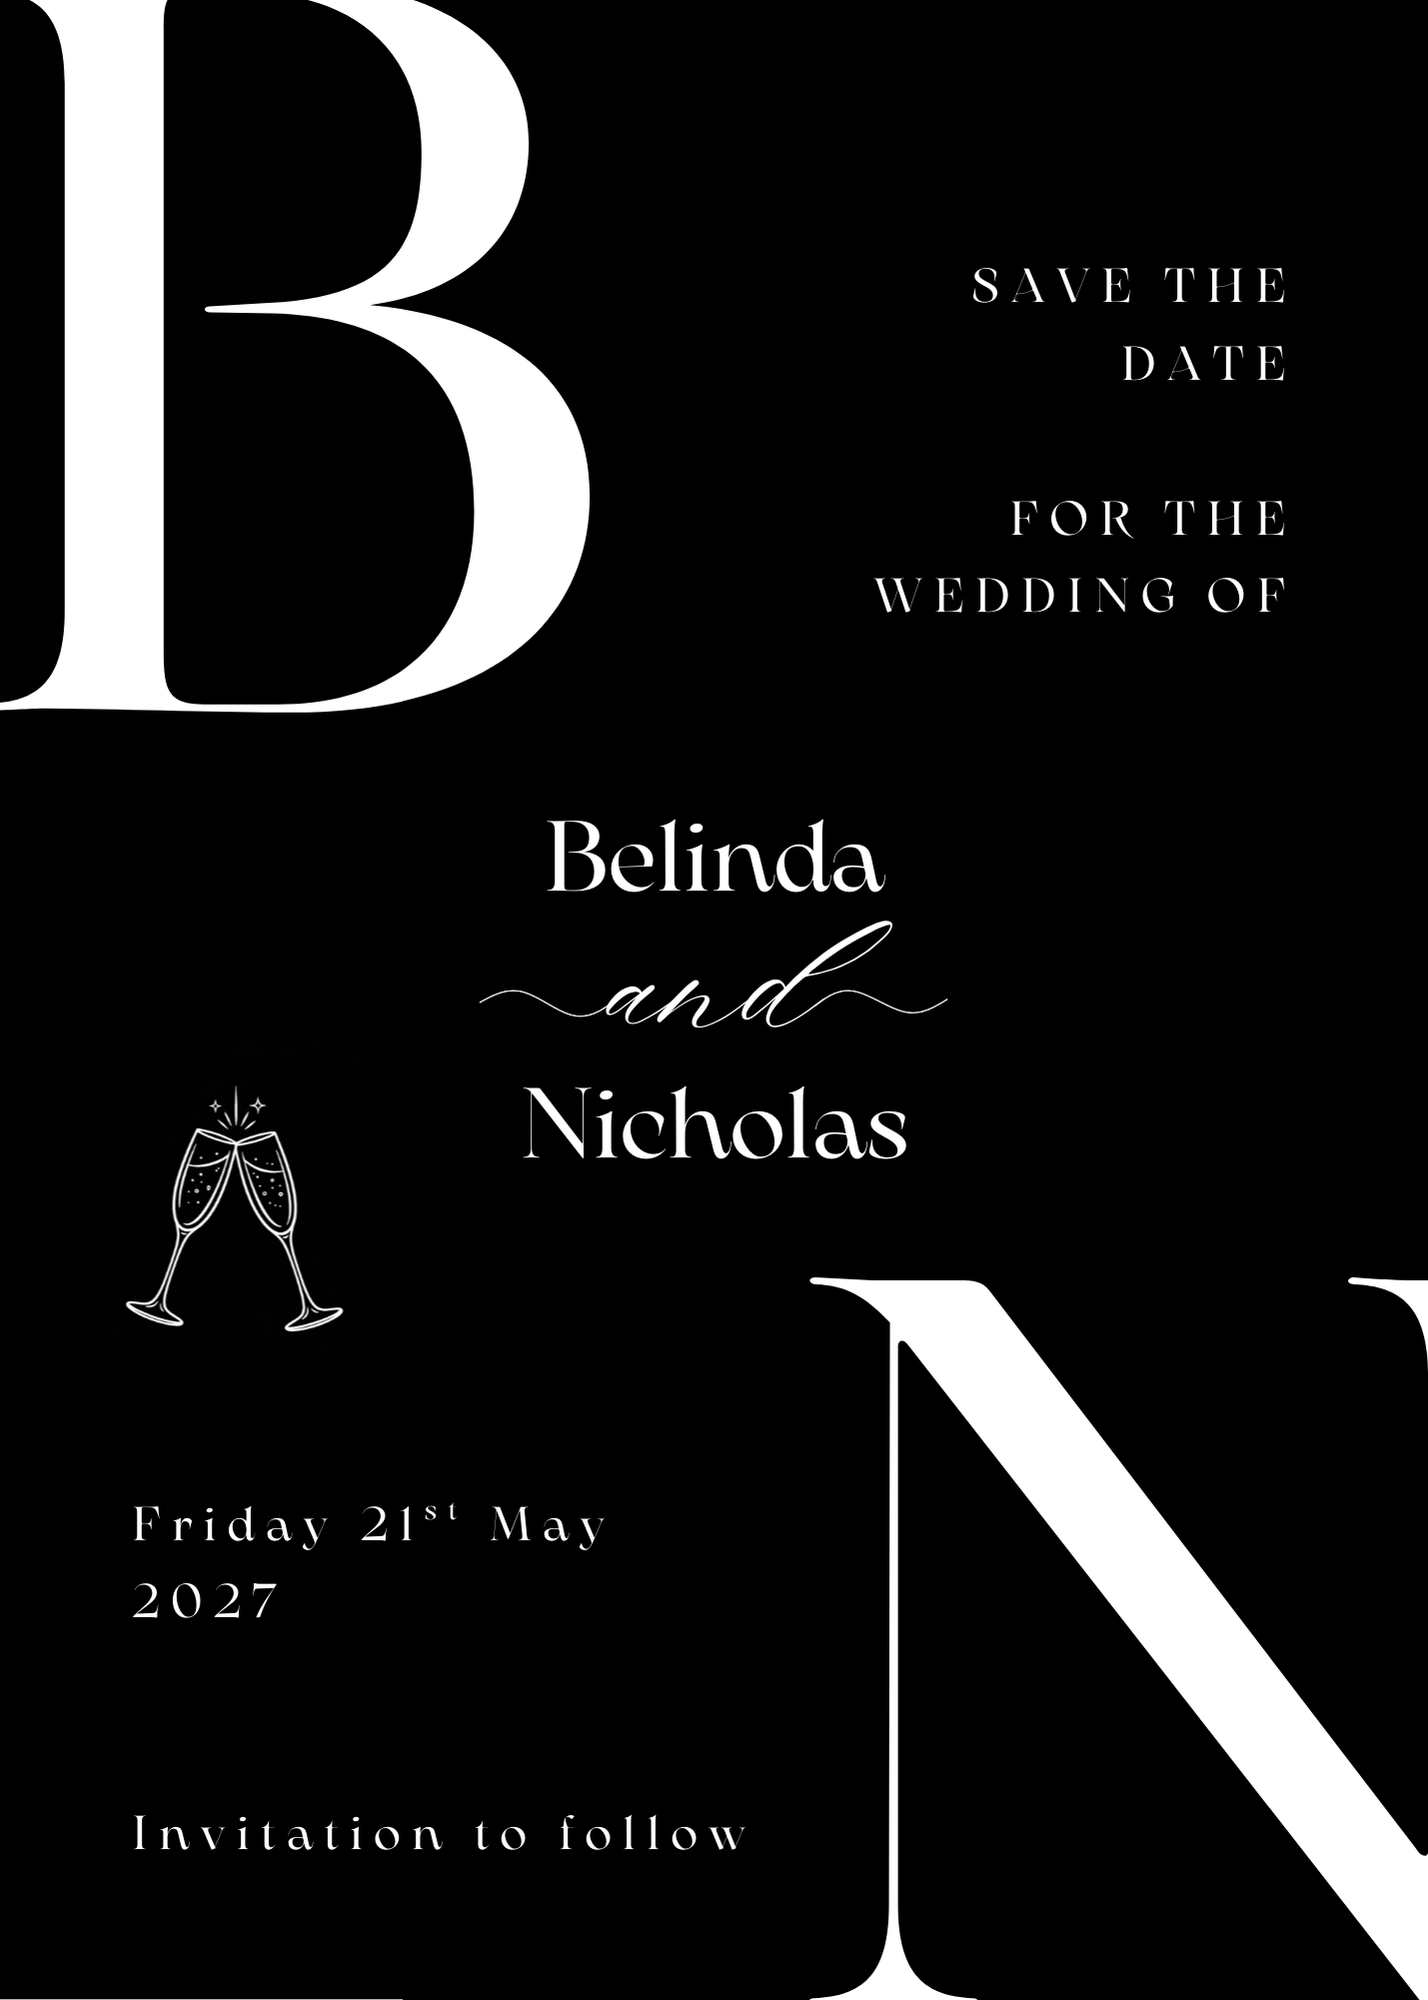
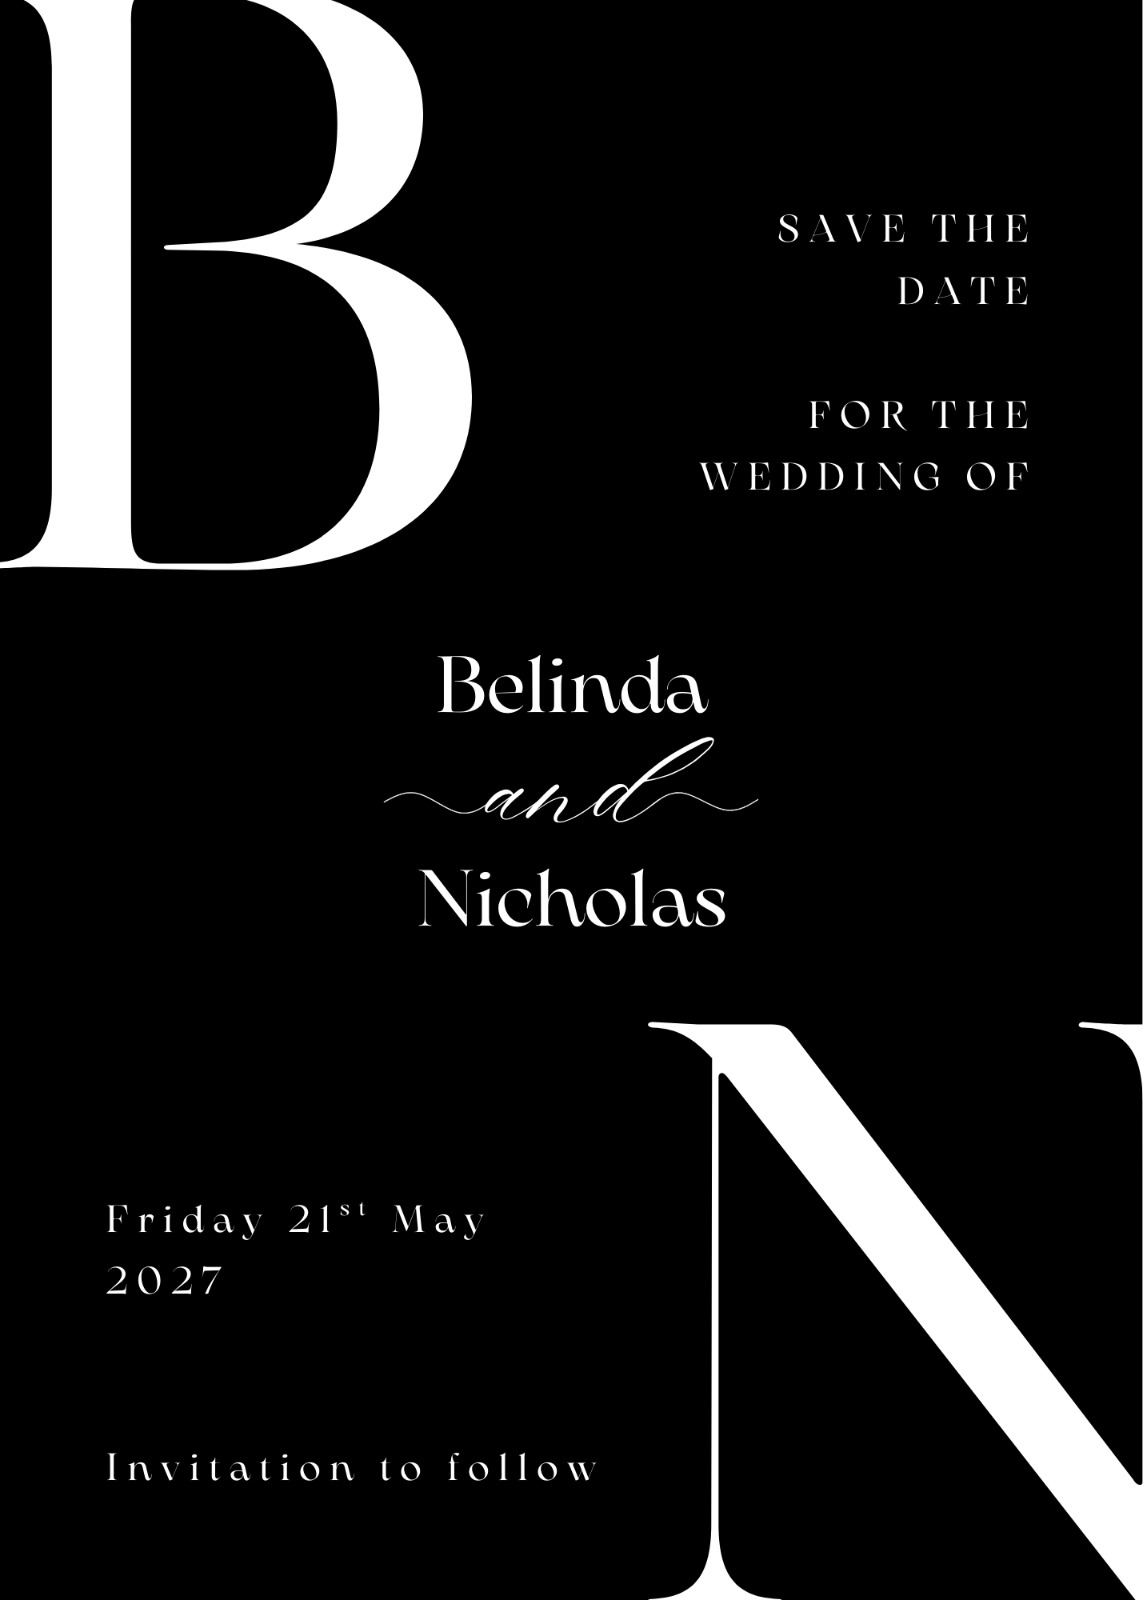
udpate images

diff --git a/index.html b/index.html
@@ -36,7 +36,7 @@
             <button class="close-btn" id="closeBtn">&times;</button>
             
             <div class="invite-card">
-                <img src="assets/Elegant digital wedd.png" alt="Save the Date" class="invite-image">
+                <img src="assets/Elegant digital wedd.png?v=2" alt="Save the Date" class="invite-image">
             </div>
         </div>
 
